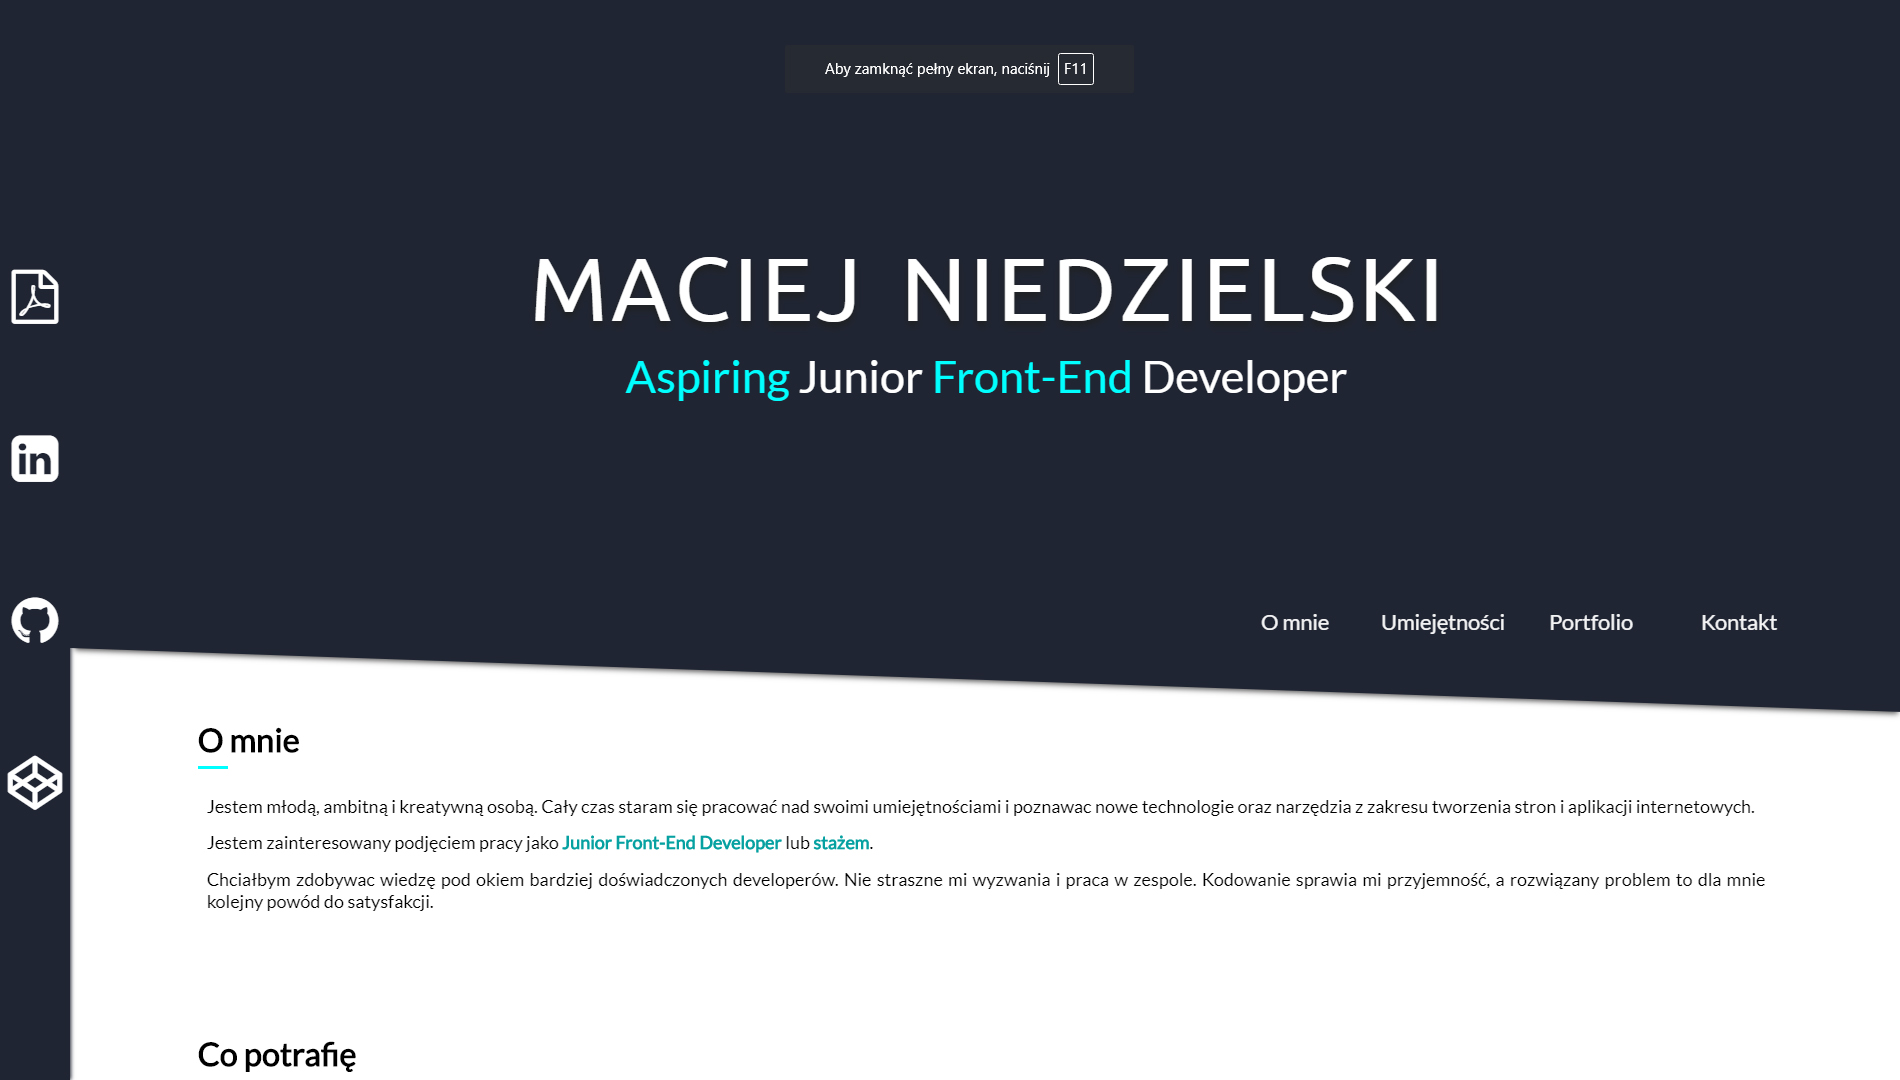
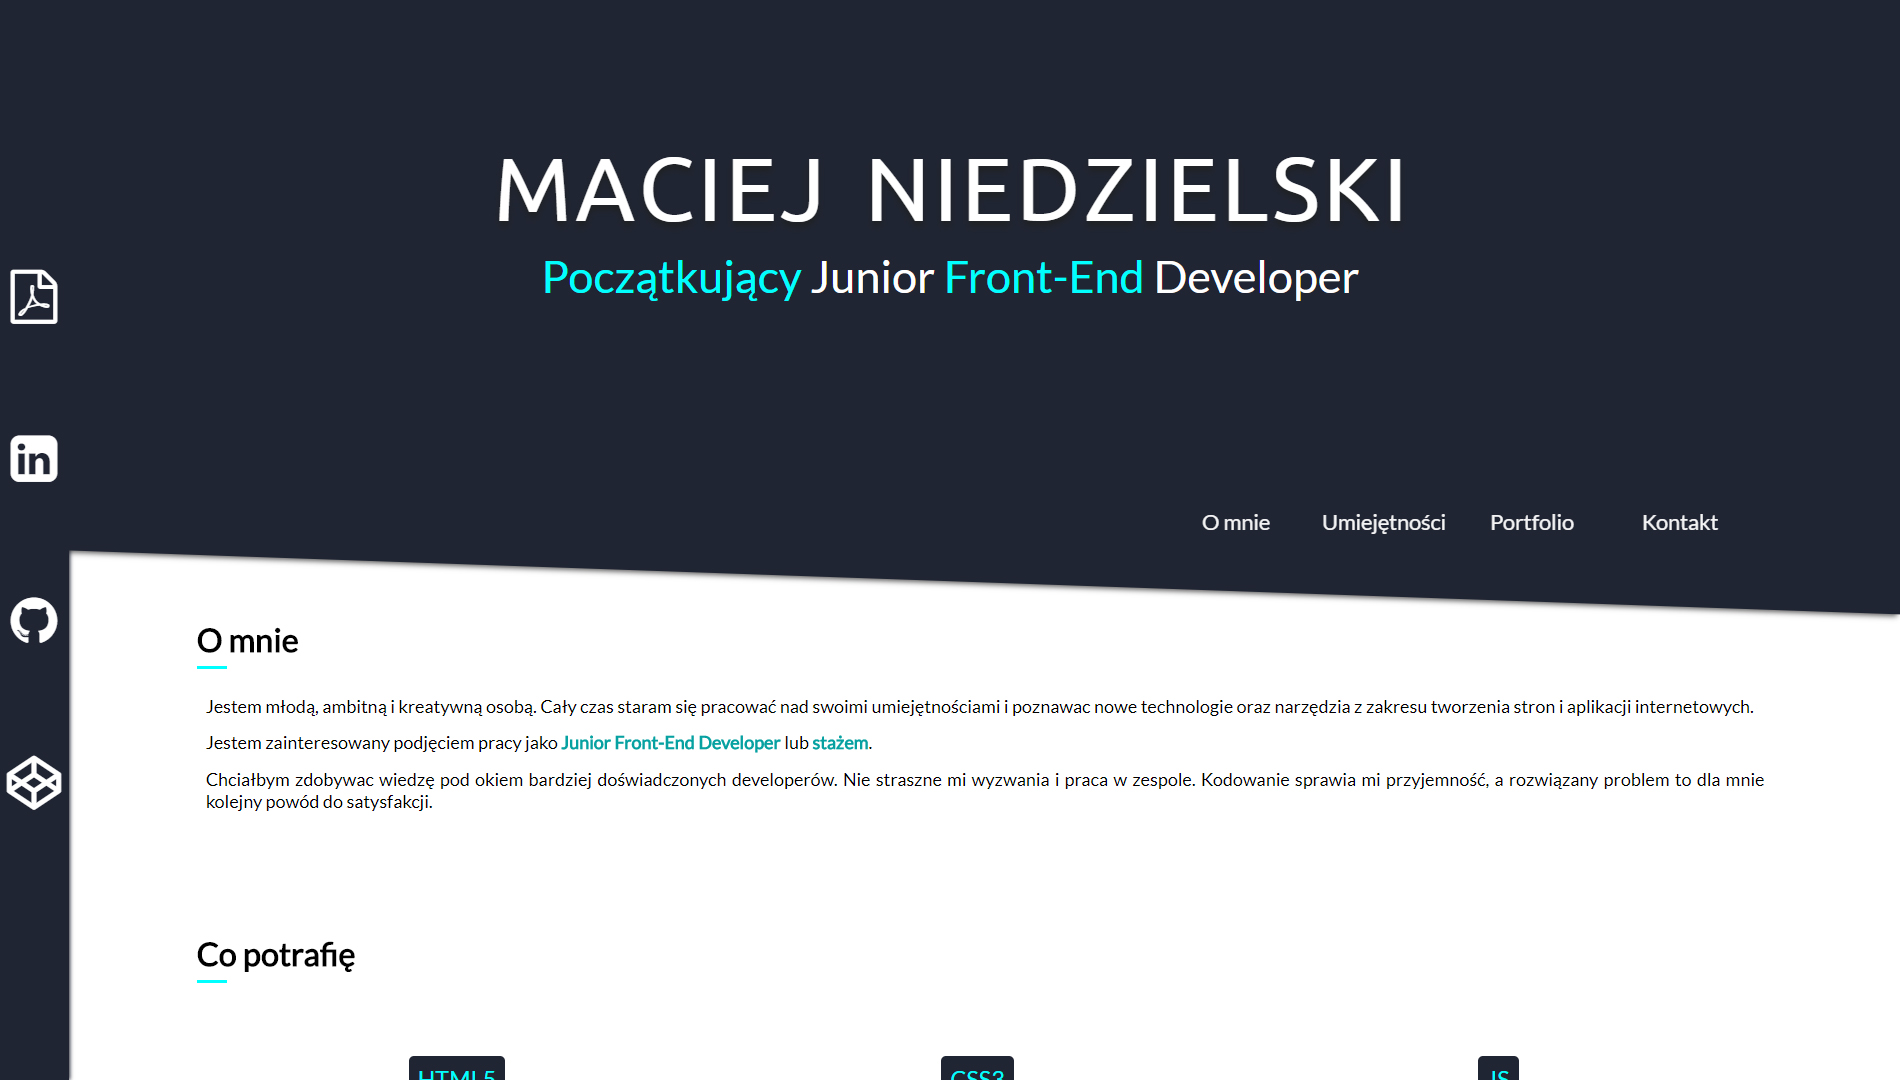
Edit header text, edit style and replace image

diff --git a/styles/main.css b/styles/main.css
@@ -375,13 +375,6 @@ p.skill__text{
 *{
   font-size: 16px;
 }
-/*body{
-  display:flex;
-  flex-direction: row;
-  align-items: center;
-  align-content: center;
-  justify-content: center;
-}*/
 .sidebar{
   width: 70px;
   height: 100vh;
@@ -412,6 +405,7 @@ header{
   width: 100%;
   min-height: 200px;
   height: 60vh;
+  min-height: 340px;
   animation-name: fadeOut;
   animation-duration: 3s;
 }
@@ -548,7 +542,7 @@ path{
     display: flex;
     flex-direction: row;
     justify-content: flex-end;
-    padding: 0.5rem 5rem;
+    padding: 0.5rem 0rem;
   }
   .nav__menu li{
     margin: 0;

diff --git a/index.html b/index.html
@@ -57,7 +57,7 @@
         <li>K</li>
         <li>I</li>
       </ul>
-      <p class="job-title hidden"><span class="job-title highlight">Aspiring</span> Junior <span class="job-title highlight">Front-End</span> Developer</p>
+      <p class="job-title hidden"><span class="job-title highlight">Początkujący</span> Junior <span class="job-title highlight">Front-End</span> Developer</p>
     </div>
     <nav class="nav">
       <button class="nav__button"><i class="fa fa-bars" aria-hidden="true"></i></button>
